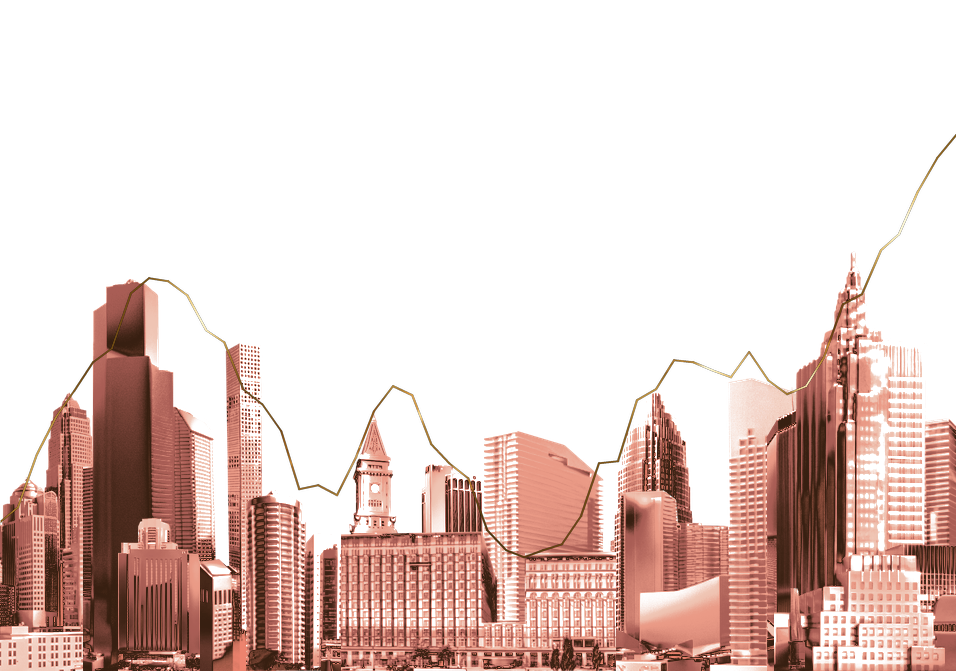
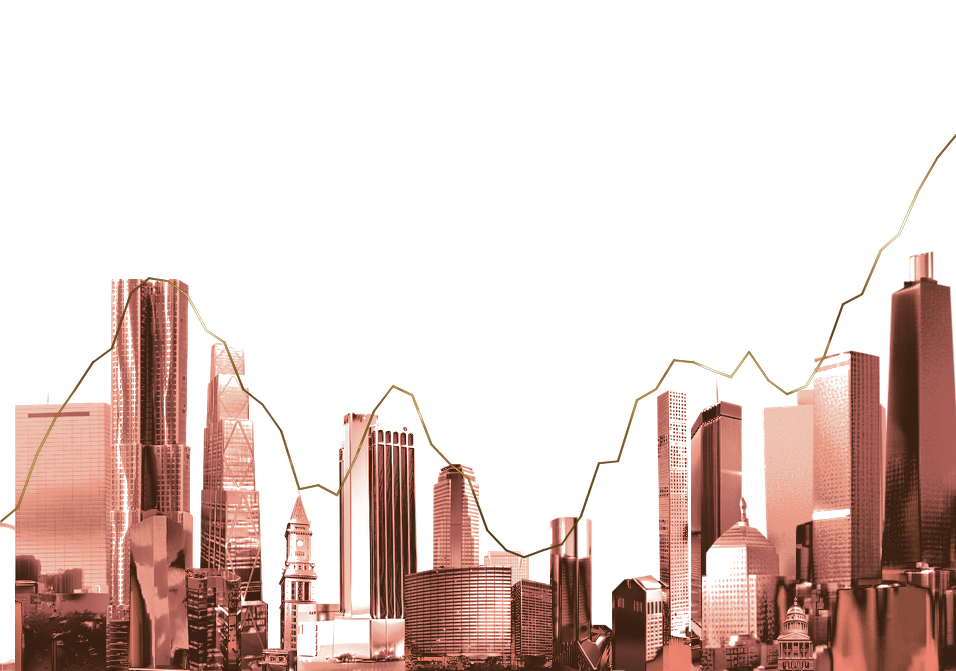
make layer shifting a util function

diff --git a/python/image_generator/generator.py b/python/image_generator/generator.py
@@ -3,6 +3,7 @@ import random
 from typing import List, Optional
 from PIL import Image, ImageDraw
 from .config import config
+from .utils import getShiftedUserDataID
 
 # 生成最终图片的主函数
 def generate_final_image(
@@ -47,6 +48,8 @@ def generate_final_image(
     # 读取金银铜渐变图并resize到画布大小（路径从config获取）
     gradient_img = Image.open(overlay_colors[color_name]).convert('RGBA').resize(size)
 
+    if verbose:
+        print(f"=========绘制: 开始=========")
     # 1. 生成每层背景（折线下方区域，渐变+色块）
     backgrounds = []
     for i in range(num_layers):
@@ -75,17 +78,18 @@ def generate_final_image(
         line_data = user_data[i]
 
         # 绘制常规层. 为避免完全遮挡, 每层会有一个水平偏移
-        # 偏移计算方法(与selector.py中保持一致): 假设有两层, 第一层建筑的中点距离bar的左边沿有0.5个unit_offset, 
-        # 第二层有1.5个unit_offset. 这样能保证前一个bar的第二层和后一个bar的第一层的间隔是1个unit_offset, 实现完全等分
-        unit_offset = 1 / num_layers
-        layer_offset = (i+0.5) * unit_offset
         for j, img_path in enumerate(chosen_imgs):       
-            center_idx = int((j+layer_offset) / buildings_per_layer * (points_per_line[i] - 1))
-            x_center = int(center_idx / (points_per_line[i] - 1) * size[0])  
-            h_ratio = line_data[min(center_idx, points_per_line[i]-1)]
+            idx = getShiftedUserDataID(user_data, num_layers, buildings_per_layer, i, j)
+            x_center = int(idx / (points_per_line[i]-1) * size[0])   
+            
+            strict_idx = max(0, min(idx, points_per_line[i]-1))
+            h_ratio = line_data[strict_idx]
             h = int(size[1] * h_ratio)
-            draw_building(layer, img_path, x_center, h, gradient_img, guides, debug_point_list)
-        
+            if verbose:
+                print(f"[第{i+1}层] building={j}, idx = {idx}, x_center = {x_center}")
+
+            draw_building(layer, img_path, x_center, h, gradient_img, verbose, guides, debug_point_list)              
+
         # 如果是最前层（layer1），同时绘制3个前景建筑
         if i == 0 and extra_building_count > 0:
             fg_imgs = building_image_paths[0]
@@ -93,7 +97,7 @@ def generate_final_image(
                 x_center = int((j+0.5) / extra_building_count * size[0])
                 h_ratio = 0.2 + (random.random()-0.5) * 2 * 0.1
                 h = int(size[1] * h_ratio)
-                draw_building(layer, img_path, x_center, h, gradient_img, guides, debug_point_list)
+                draw_building(layer, img_path, x_center, h, gradient_img, verbose, guides, debug_point_list)
 
         buildings.append(layer)
 
@@ -137,10 +141,12 @@ def generate_final_image(
     # 保存图片
     base.save(output_path)
     if verbose:
+        print(f"=========绘制: 结束=========")
+    if verbose:
         print(f'最终图片已保存到 {output_path}')
 
 
-def draw_building(layer:Image, img_path, img_center_x, img_dst_height, gradient_img, guides, debug_point_list):
+def draw_building(layer:Image, img_path, img_center_x, img_dst_height, gradient_img, verbose, guides, debug_point_list):
     """
     在指定的图层上绘制单个建筑。
 
@@ -166,6 +172,10 @@ def draw_building(layer:Image, img_path, img_center_x, img_dst_height, gradient_
     # 使用ColorMap方式混合
     blended = blend_building_with_gradient(img, gradient_img)
     layer.alpha_composite(blended, (paste_x, paste_y))
+
+    if verbose:
+        print(f"left = {paste_x}, top = {paste_y}, width = {new_w}, height = {new_h}")
+
     if guides:
         # 中文注释: 记录每个建筑对应的折线点坐标
         debug_point_list.append((img_center_x, paste_y))

diff --git a/python/image_generator/utils.py b/python/image_generator/utils.py
@@ -1,0 +1,54 @@
+
+
+def getShiftedUserDataID(user_data, num_layers, buildings_per_layer, layer_index, building_index, method='contain'):
+    """
+    将每层的偏移考虑进去后, 根据building_index获取当前位置的user_data_id
+    """
+    layer_data = user_data[layer_index]
+    points_per_line = len(layer_data)
+    idx = 0
+
+    """
+    contain方法:
+    1. 横向划分为13个segment
+    2. 假设共有两个图层, 
+    第一层建筑的中点, 依次在0.25, 1.25, 2.25...12.25个segment的位置,
+    第二层建筑的中点, 依次在0.75, 1.75, 2.75...12.75个segment的位置.
+    
+    这样能保证第一层和第二层交错显示, 完全等分全部图片的宽度. 
+
+    在这种情况下, 返回的id不会越界
+    """
+    if method == 'contain':
+        unit_offset = 1 / num_layers
+        layer_offset = (layer_index+0.5) * unit_offset
+        idx = int((building_index+layer_offset) / buildings_per_layer * (points_per_line - 1))
+
+    """
+    cover方法:
+    1. 横向划分为(13-1)共12个segment. 若没有offset, 第一栋建筑中点横坐标为0, 最后一栋建筑中点横坐标为layer.width
+    2. 假设共有两个图层, 
+    第一层建筑的中点, 依次在-0.25, 0.75, 1.75...11.75个segment的位置,
+    第二层建筑的中点, 依次在0.25, 1.25, 2.25...12.25个segment的位置.
+
+    这样第一层和第二层交错显示. 但由于一共只有0 - 12个segment, 实际上, 会有建筑的中点在画框外的情况
+
+    因此在这种情况下, 返回的id存在越界的情况.
+
+    制作cover方法的原因是由于采用contain方式时:
+    第一层实际上向左偏移, 这样会导致第一层最右端的建筑与图片右边缘较远, 留下一段缺少建筑物的折线, 显得匹配关系草草收尾. 
+    
+    但使用cover方法时同样存在问题:
+    由于建筑物的中点一定存在出现在画框外的情况, 因此建筑物被裁切的情况更加严重. 甚至如果建筑物图片较小的话, 还会出现整栋
+    建筑显示在画框外的情况. 因此还是选择contain更合适一些.
+    """
+    if method == "cover":
+        if num_layers == 1:
+            layer_offset = 0
+        else:
+            unit_offset = 1 / num_layers
+            layer_offset = (layer_index-0.5) * unit_offset
+           
+        idx = int((building_index+layer_offset) / (buildings_per_layer-1) * (points_per_line - 1))
+            
+    return idx

diff --git a/python/image_generator/selector.py b/python/image_generator/selector.py
@@ -3,6 +3,7 @@ import random
 from typing import List
 from typing import Optional
 from .config import config
+from .utils import getShiftedUserDataID
 
 def _pick_images_from_pool(pool, count, allow_duplicate):
     """
@@ -70,6 +71,9 @@ def calculate_building_image_paths(
             'generic': generic_files[:],
             'generic_all': generic_files[:],
         }
+
+    if verbose:
+        print(f"=========挑选: 开始=========")
     # 先挑选前景3张图片（h0），从池中移除
     foreground_paths = _pick_images_from_pool(pools['h0'], extra_building_count, allow_duplicate)
     if verbose:
@@ -82,10 +86,12 @@ def calculate_building_image_paths(
         # 计算每层的水平偏移
         # 偏移计算方法(generator.py中保持一致): 假设有两层, 第一层建筑的中点距离bar的左边沿有0.5个unit_offset, 
         # 第二层有1.5个unit_offset. 这样能保证前一个bar的第二层和后一个bar的第一层的间隔是1个unit_offset, 实现完全等分
-        unit_offset = 1 / num_layers
-        layer_offset = (layer_idx+0.5) * unit_offset
+        # unit_offset = 1 / num_layers
+        # layer_offset = (layer_idx+0.5) * unit_offset
         for b in range(buildings_per_layer):
-            idx = int((b+layer_offset) / buildings_per_layer * (len(layer_data) - 1))
+            idx = getShiftedUserDataID(user_data, num_layers, buildings_per_layer, layer_idx, b)
+            idx = max(0, min(idx, len(layer_data) - 1))
+            # idx = int((b+layer_offset) / buildings_per_layer * (len(layer_data) - 1))
             val = layer_data[idx]
             htype = None
             for i, boundary in enumerate(height_boundaries):
@@ -99,5 +105,8 @@ def calculate_building_image_paths(
             if verbose:
                 print(f"[第{layer_idx+1}层] building={b}, idx = {idx}, user_data={val:.2f}, htype={htype}, path={picked[0]}")
         layer_results.append(layer_paths)
+    
+    if verbose:
+        print(f"=========挑选: 结束=========")
     # 返回顺序: [前景, layer1, ..., layerN]
     return [foreground_paths] + layer_results 
